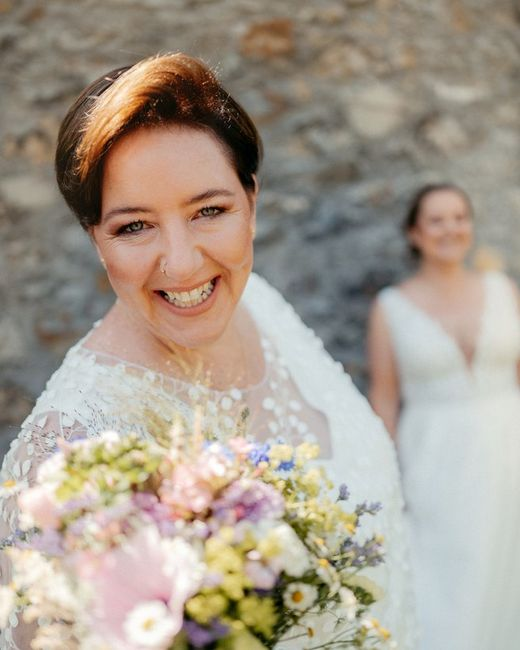
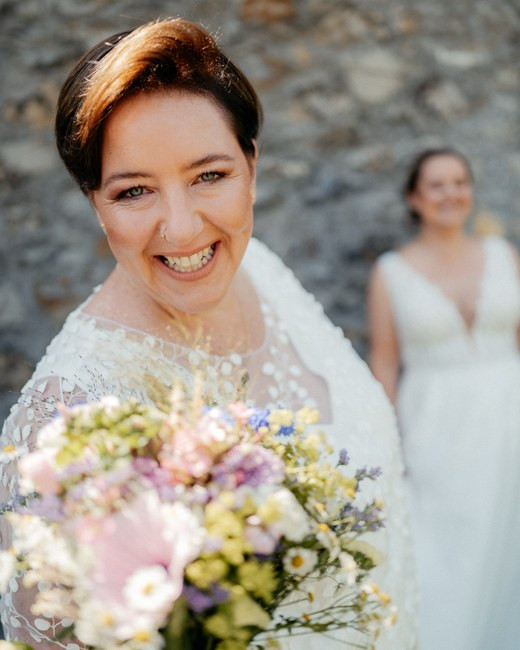
Put all four of Erika's photographs online
Her set held one picture, and the tile above it was a crop of that same
frame — the same face twice before anything else appeared. It now runs
the four photographs from her folder: the portrait with the bouquet,
the quiet one looking down, the two of them under the archway, and the
walk through the confetti. The tile is a 4:5 crop of the first,
measured on the face rather than guessed.

Anja asked for all four, including the confetti frame with the guests
in it. Her wedding, her clients, her call.

diff --git a/index.html b/index.html
@@ -555,10 +555,10 @@
               data-fotos="01.jpg,02.jpg,03.jpg" aria-label="Open Mahra's photos">
         <img src="media/portfolio/mahra/titel.jpg"
              alt="Blonde updo, quiet and elegant — bridal makeup by Anja Zander, Amsterdam" loading="lazy" />
-        <span class="braut-fuss"><span class="braut-zahl">4</span></span>
+        <span class="braut-fuss"><span class="braut-zahl">5</span></span>
       </button>
       <button type="button" class="braut" data-satz="erika" data-name="Erika"
-              data-fotos="01.jpg,02.jpg,03.jpg" aria-label="Open Erika's photos">
+              data-fotos="01.jpg,02.jpg,03.jpg,04.jpg" aria-label="Open Erika's photos">
         <img src="media/portfolio/erika/titel.jpg"
              alt="Outdoors at the stone wall — bridal makeup by Anja Zander, Amsterdam" loading="lazy" />
         <span class="braut-fuss"><span class="braut-zahl">4</span></span>
